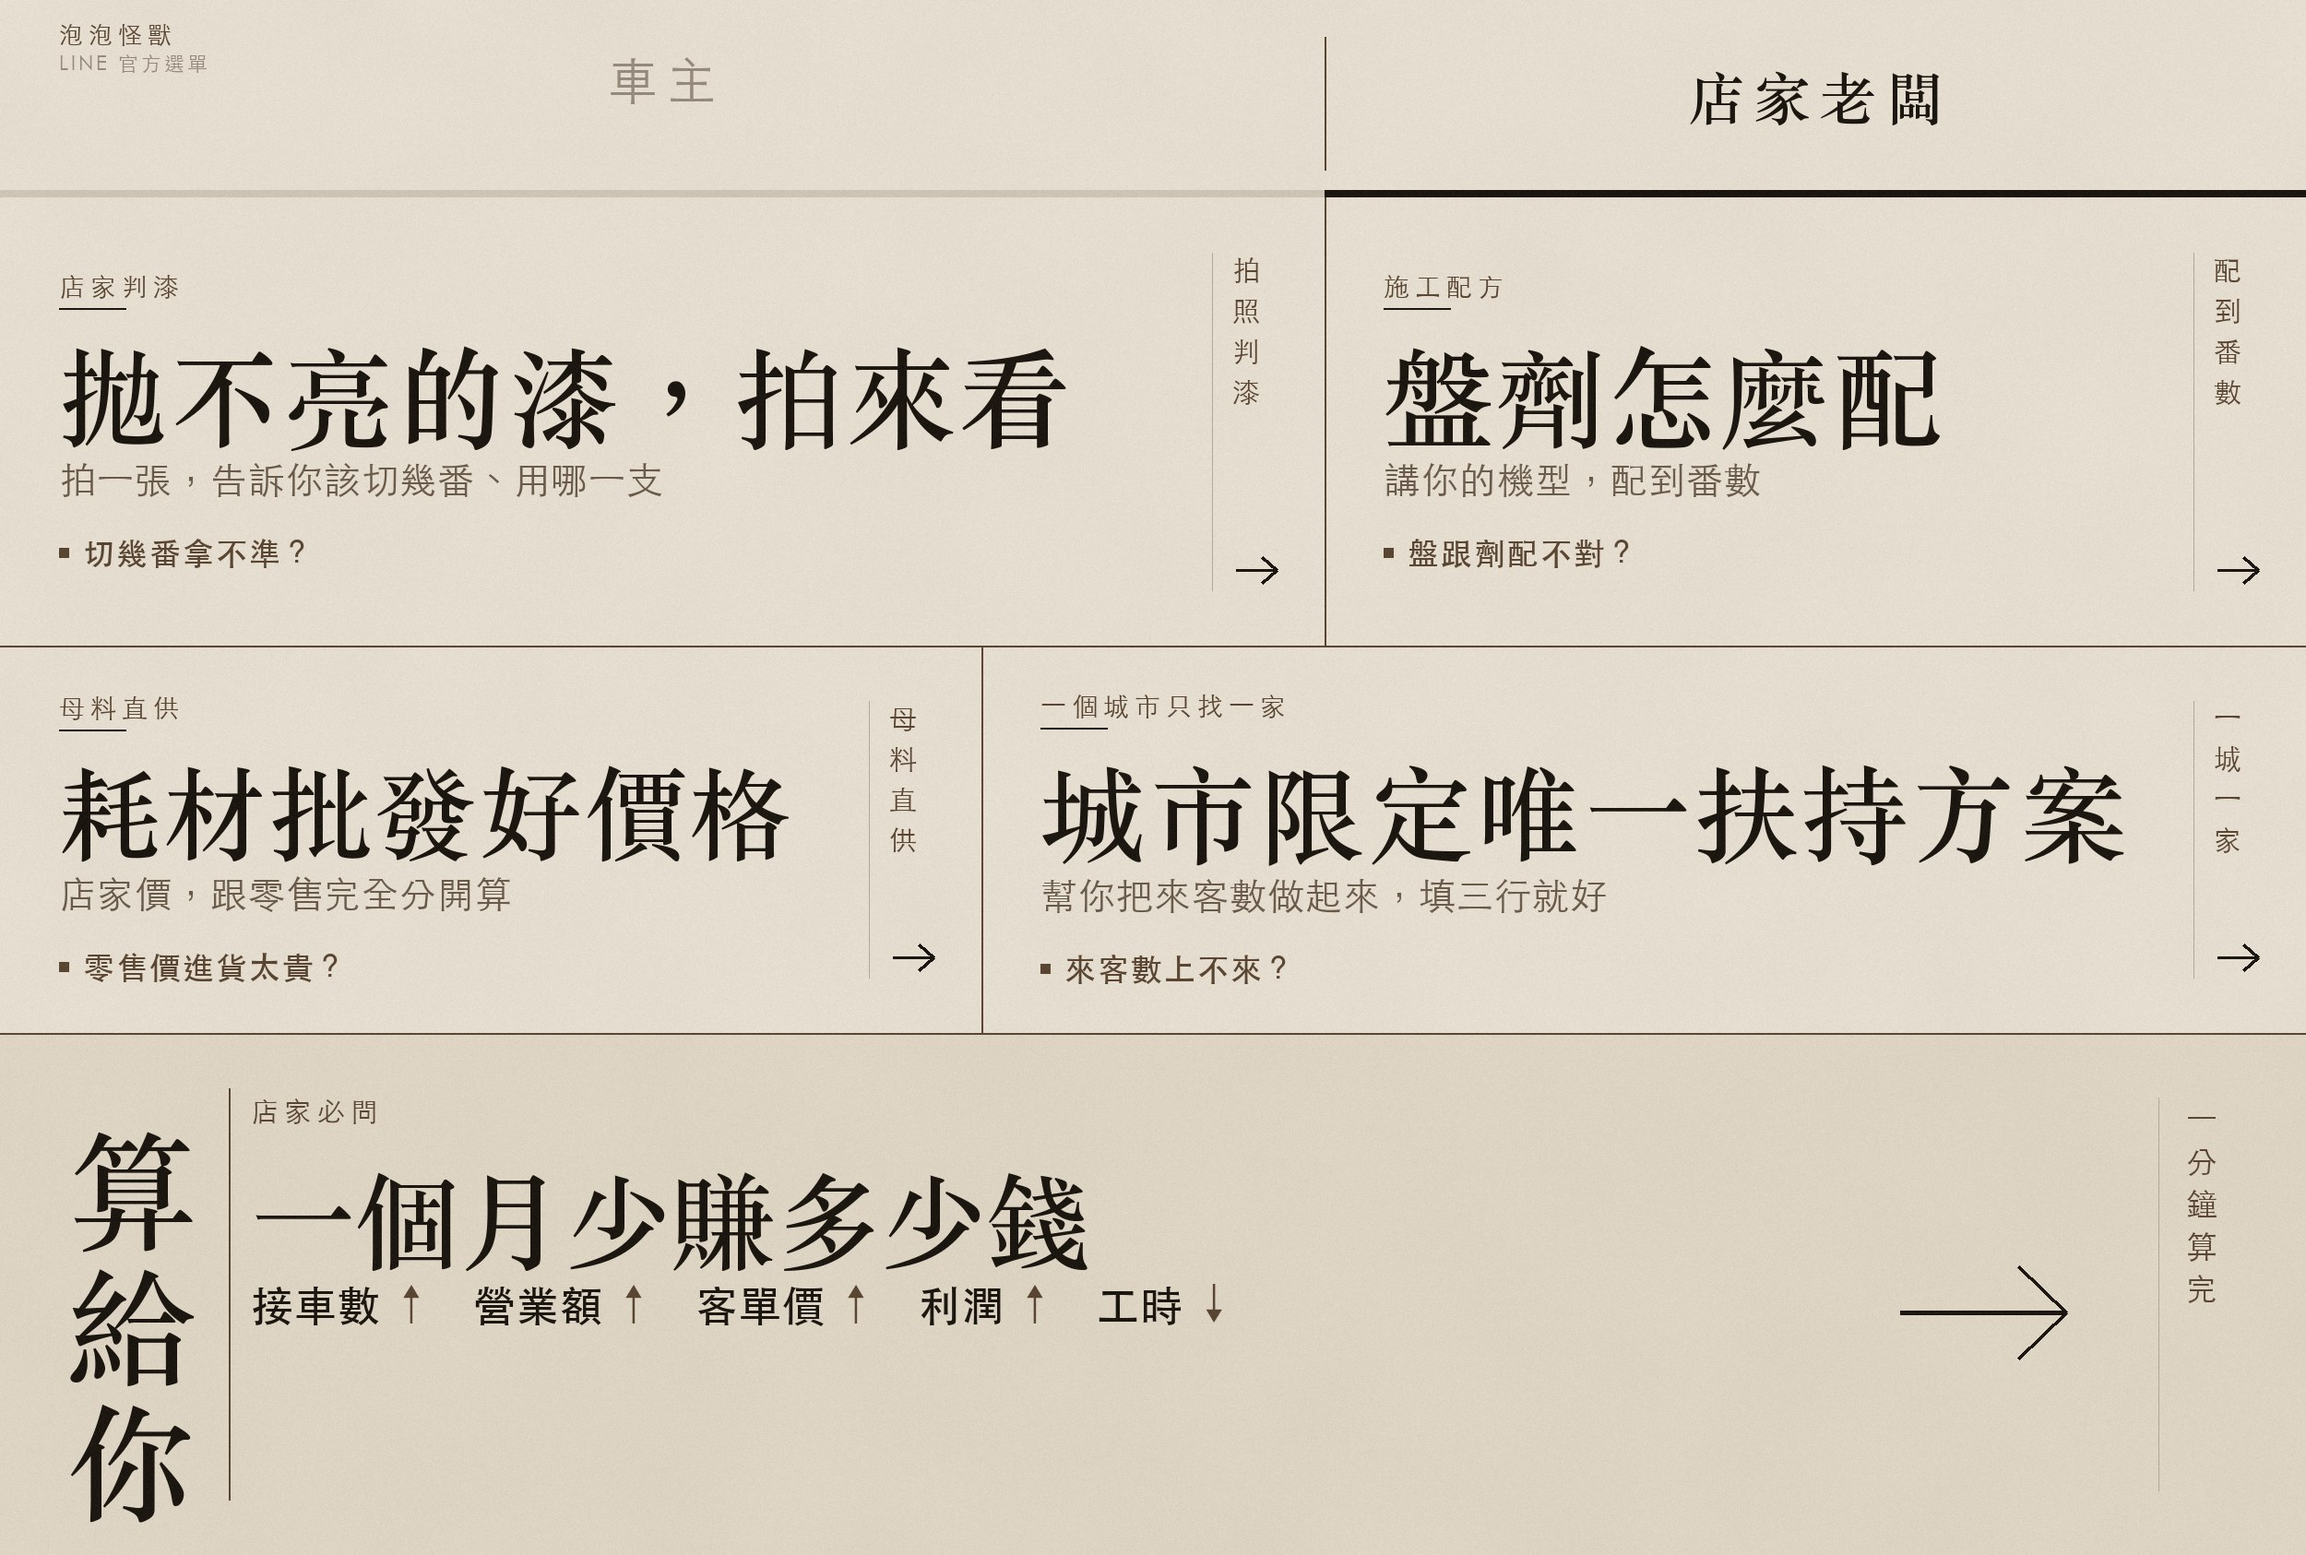
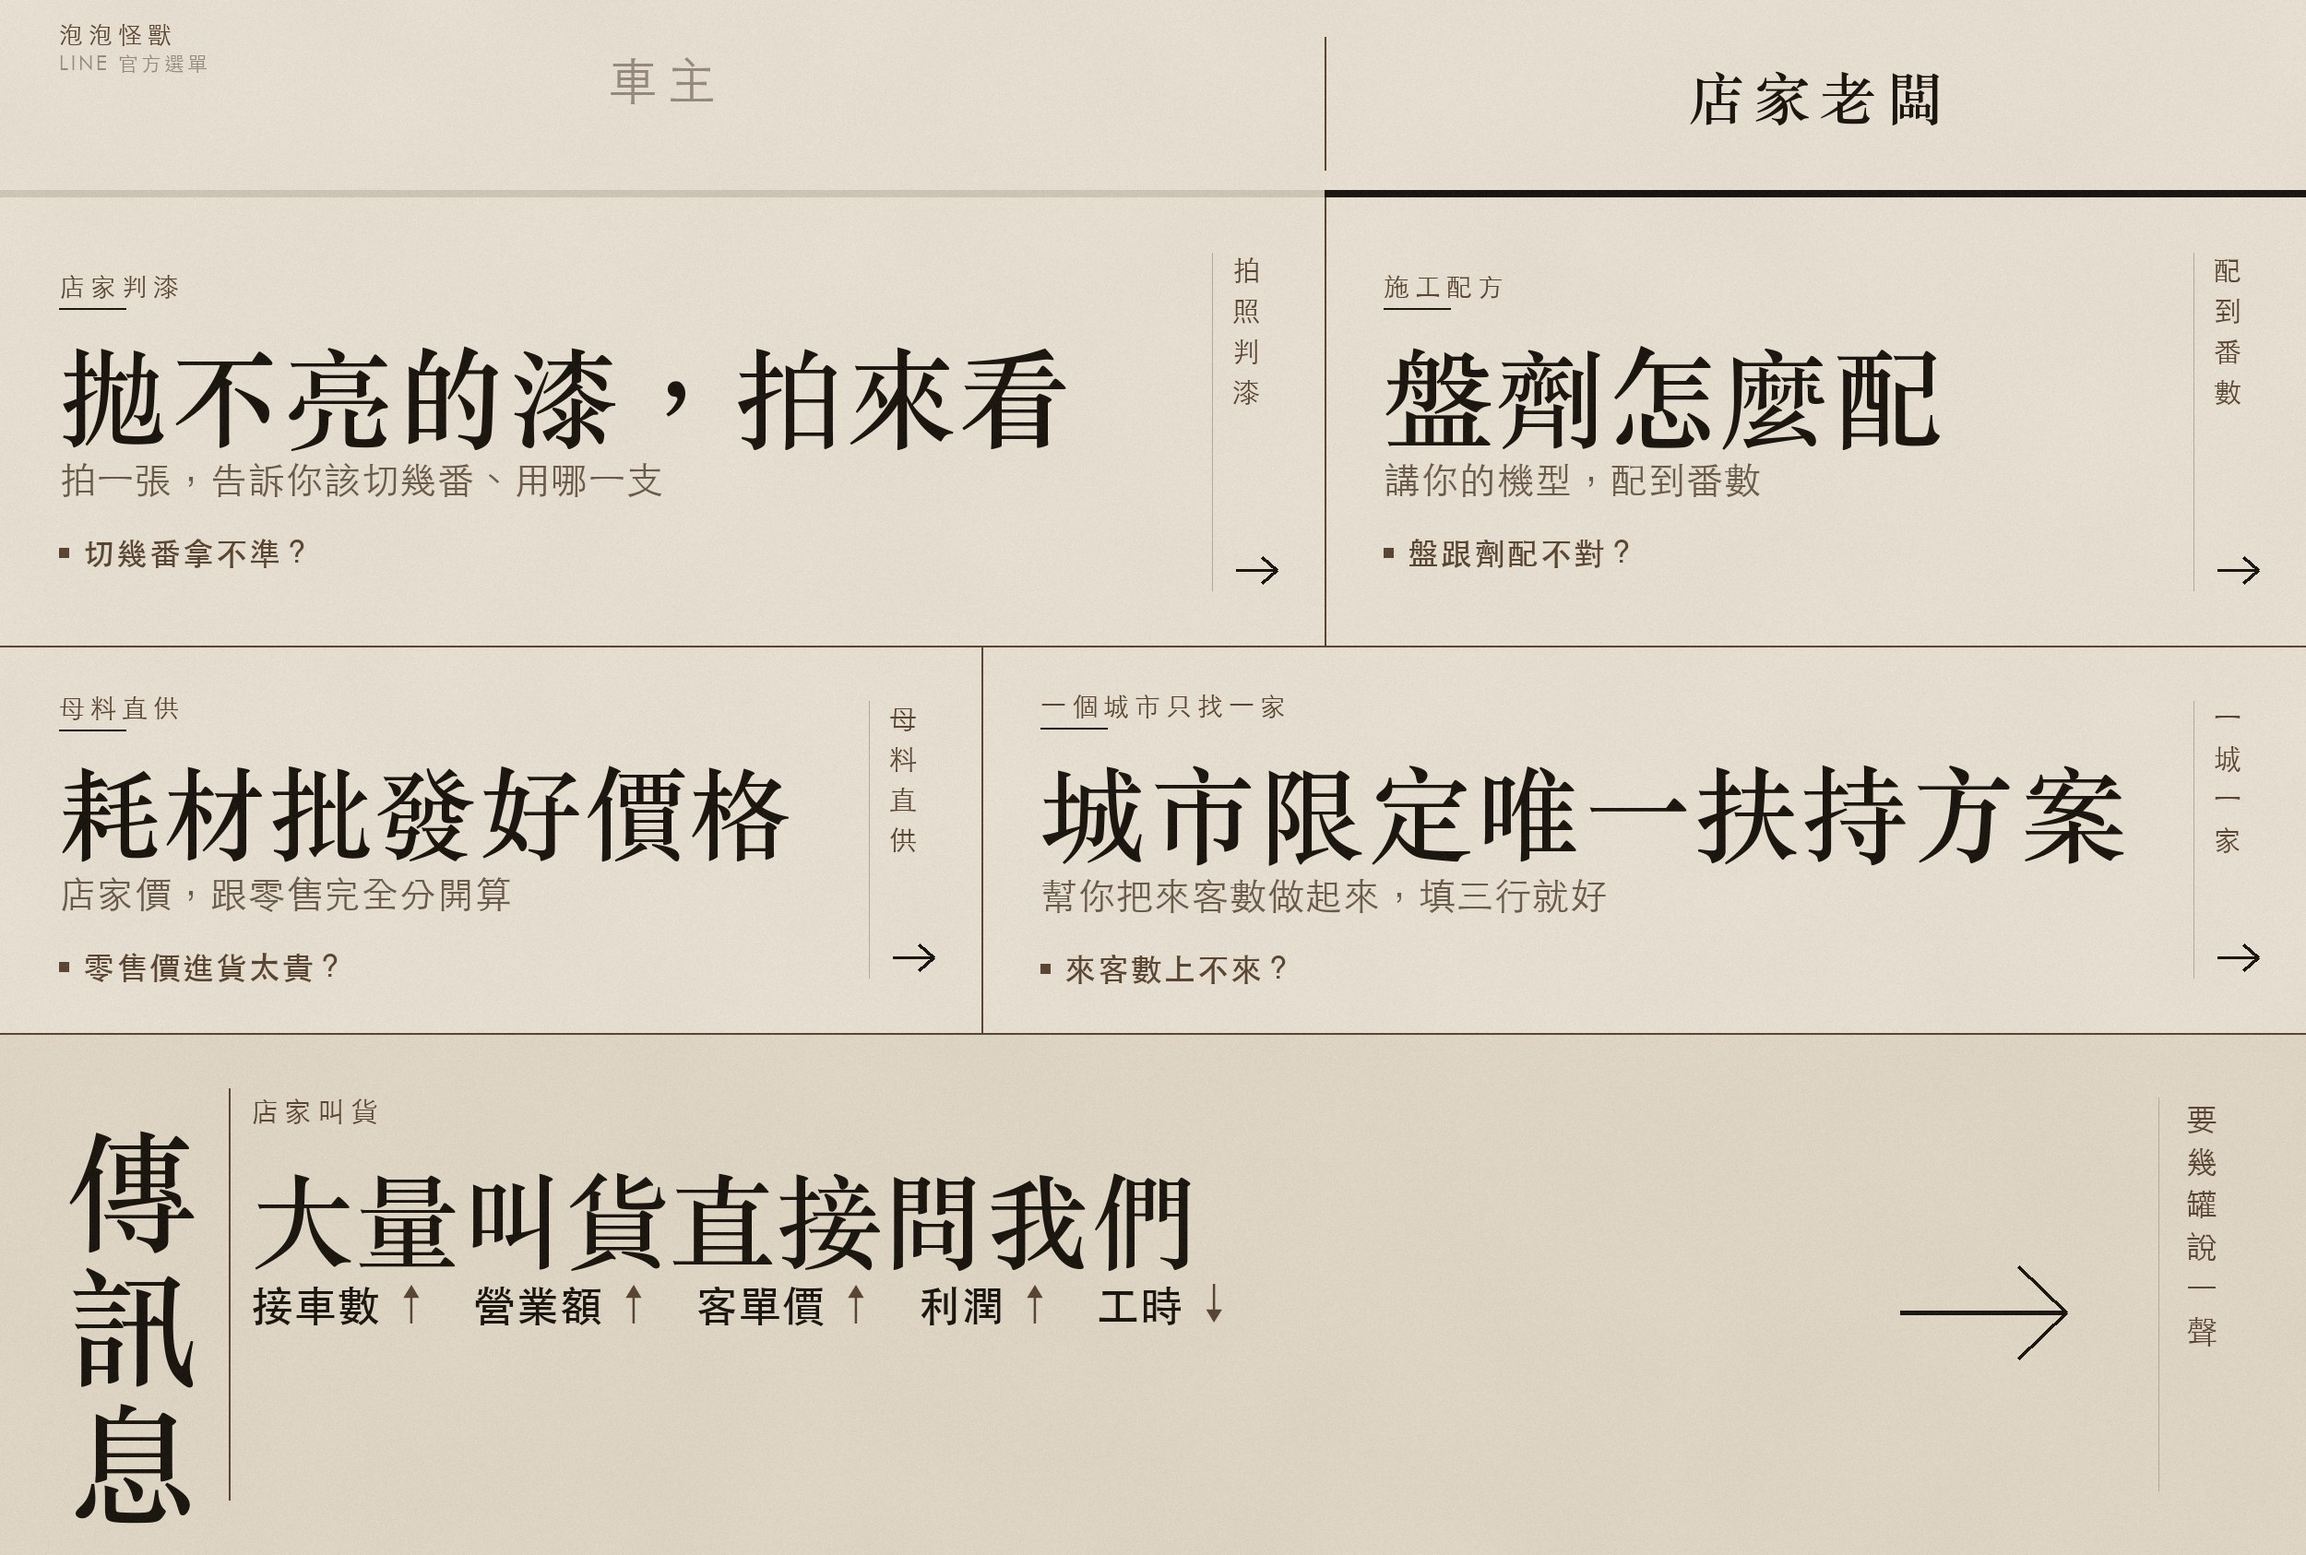
pop-line 選單：店家頁底條拿掉「一個月少賺多少錢」，改成「傳訊息，大量叫貨直接問我們」
本人 11-09：把少賺多少錢拿掉。選單已重建並設為全員預設。

diff --git a/scripts/pop-richmenu-build-v9.py b/scripts/pop-richmenu-build-v9.py
@@ -282,9 +282,9 @@ SHOP_CELLS = [
     ('耗材批發好價格', '店家價，跟零售完全分開算', '母料直供', '零售價進貨太貴？', '母料直供'),
     ('城市限定唯一扶持方案', '幫你把來客數做起來，填三行就好', '一個城市只找一家', '來客數上不來？', '一城一家'),
 ]
-SHOP_CTA = ('店家必問', '算給你，一個月少賺多少錢',
+SHOP_CTA = ('店家叫貨', '傳訊息，大量叫貨直接問我們',  # 11-09 本人:把少賺多少錢拿掉
             [('接車數', '↑'), ('營業額', '↑'), ('客單價', '↑'), ('利潤', '↑'), ('工時', '↓')],
-            '一分鐘算完')
+            '要幾罐說一聲')
 
 _song = [c[0] for c in SHOP_CELLS + DRIVER_CELLS] + [SHOP_CTA[1], DRIVER_CTA[1], '車主', '店家老闆']
 _hei = [c[1] + c[2] + c[3] + c[4] for c in SHOP_CELLS + DRIVER_CELLS] + [SHOP_CTA[3], DRIVER_CTA[3]] + [SHOP_CTA[0], DRIVER_CTA[0], '店家老闆', '泡泡怪獸LINE 官方選單'] \

diff --git a/scripts/pop-richmenu-deploy.py b/scripts/pop-richmenu-deploy.py
@@ -72,7 +72,7 @@ MENUS = {
       # 鍵盤預填三行範本 = 零前端成本的半結構化表單(不必蓋 LIFF 頁)
       area(B_LEFT, B_Y, W - B_LEFT, B_H, pb('m=shop&b=join', '我想了解城市限定的扶持方案',
                                             inputOption='openKeyboard', fillInText=JOIN_TEMPLATE)),
-      area(0, C_Y, W, C_H, pb('m=shop&b=audit', '幫我算一下我的店一個月少賺多少錢')),
+      area(0, C_Y, W, C_H, pb('m=shop&b=wholesale', '我要大量叫貨，想問一下')),
     ],
     'image': 'assets/pop/richmenu-shop-v9.jpg',
   },
